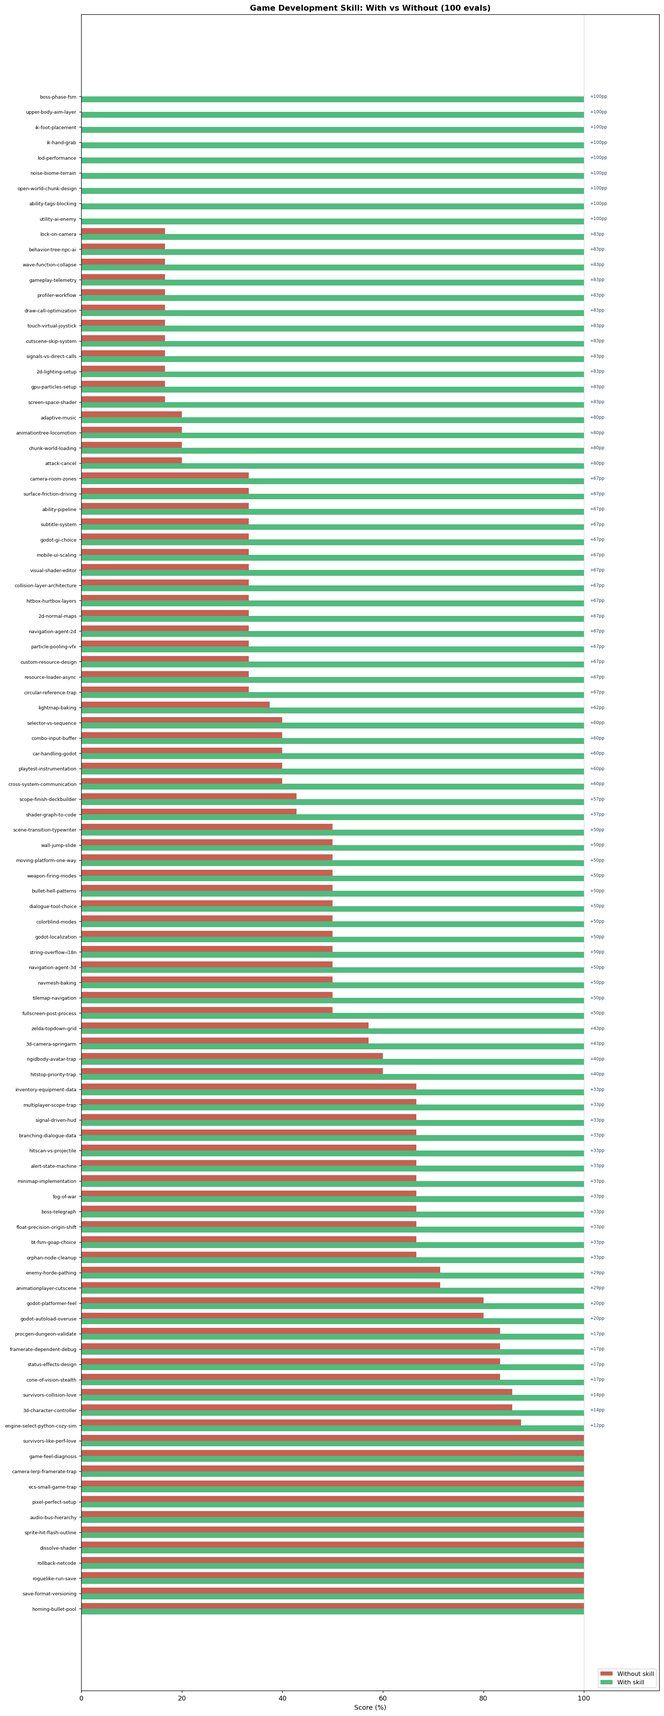
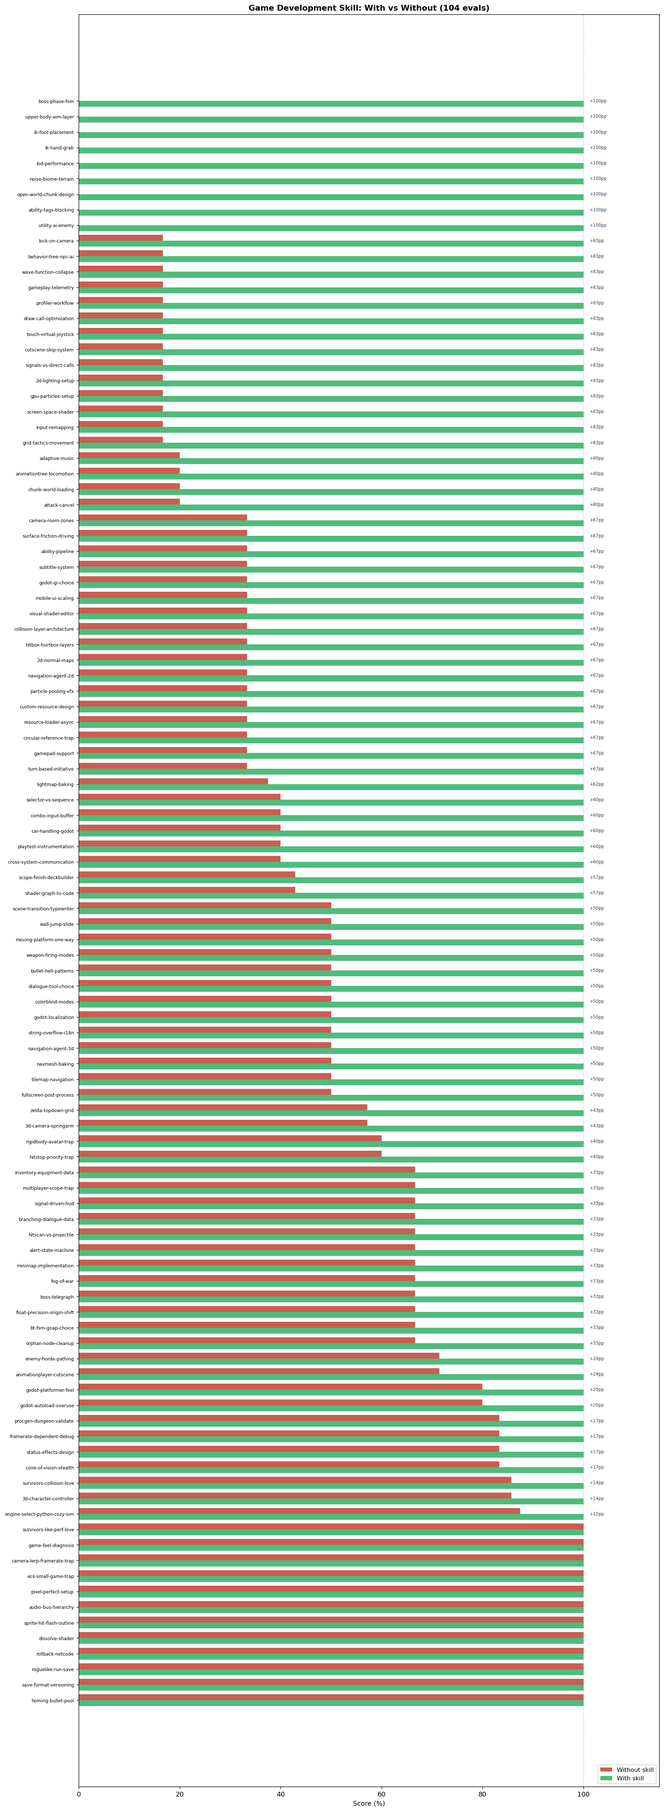
game-development: add input remapping, gamepad, grid tactics (iter-11)
New reference files: input-and-gamepad.md, grid-and-tactics.md
(56 refs total, 104 evals)

Areas added:
- Input remapping: InputMap runtime rebinding, serialize/deserialize by type,
  conflict detection, reset-to-defaults snapshot, action_set_deadzone
- Gamepad: JoyButton/JoyAxis Godot 4 enums, get_action_strength, rumble,
  hot-plug detection, active device detection for prompt icons
- Turn-based initiative: TurnManager sorted queue, TurnState enum guard,
  try_spend_ap signal pattern, skip-dead, safe dead-unit removal
- Grid tactics movement: AStarGrid2D, BFS flood fill (not A*) for range,
  Bresenham LOS, move-preview confirm, hex axial coordinates

Final: 623/623 with skill (100%), 306/623 without (49.1%), +50.9pp

Claude-Session: https://claude.ai/code/session_01Ck4njKAvZ82njqeEQouGmp

diff --git a/game-development/README.md b/game-development/README.md
@@ -12,6 +12,8 @@ Also covers **behavior trees** (BTNode/Sequence/Selector/Decorator composites wi
 
 Also covers **3D navigation** (NavigationRegion3D + NavigationMesh setup with agent_height/agent_radius/cell_size, NavigationAgent3D correct loop: `set_target_position()` + `get_next_path_position()` every frame, RVO avoidance via `set_velocity()` + `velocity_computed` signal to prevent enemy stacking, `navigation_finished` signal, `NavigationObstacle3D` for dynamic obstacles, `NavigationLink3D` for multi-floor buildings, runtime async baking with `bake_navigation_mesh(true)` + `bake_finished`, `is_target_reachable()` fallback) and **2D lighting** (`CanvasModulate` as required ambient node — without it lights are invisible; `PointLight2D` texture/scale/energy/shadow; `LightOccluder2D` + `OccluderPolygon2D` for wall shadows; TileMap per-tile occlusion; `item_cull_mask` to exclude UI layers; `Sprite2D.normal_map` with import type must be Normal Map not Color; `range_height` 64–128 for top-down depth shading; Laigter for pixel art normal generation; `WorldEnvironment` has no effect on 2D).
 
+Also covers **input remapping and gamepad support** (runtime InputMap rebinding via `action_erase_events()` + `action_add_event()`, conflict detection with `event.is_match()`, per-type InputEvent serialization for save/load — not `as_text()` which cannot be deserialized, reset-to-defaults via pre-load snapshot, `InputMap.action_set_deadzone()`, Godot 4 `JoyButton`/`JoyAxis` enums — not Godot 3 integer constants, `Input.get_action_strength()` / `get_axis()` for analog triggers and sticks, `joy_connection_changed` + `get_connected_joypads()` for hot-plug, active device detection for prompt switching, `Input.start_joy_vibration()` rumble) and **turn-based grid/tactics systems** (`AStarGrid2D` with `set_point_solid()` for walls and unit occupancy, BFS flood fill for movement range — NOT repeated A* calls, move-preview pattern with click-to-confirm, Bresenham's line for LOS with per-cell wall check, TurnManager autoload with sorted initiative array and skip-dead advancement, action-point `try_spend_ap()` with signal-driven UI, `TurnState` enum to guard input during animation, safe dead-unit removal without breaking `turn_index`, hex grid axial coordinates with `hex_distance()` / `hex_neighbors()` / `axial_to_world()`).
+
 Also covers **2D navigation** (NavigationAgent2D + NavigationRegion2D with NavigationPolygon, TileMap per-tile nav polygon setup in TileSet editor, `await bake_finished` before targeting — most-missed step, walls have no nav polygon not an explicit block, NavigationLink2D for ladders/portals, repath threshold pattern, `is_target_reachable()` fallback), **particles and VFX** (GPUParticles2D vs CPUParticles2D decision table, ParticleProcessMaterial with color_ramp gradient, one-shot bursts with `restart()` required before re-trigger, sub-emitters via `sub_emitter_mode` END_OF_LIFE/COLLISION, particle pool with `finished` signal for recycle — not allocation per hit, trail particles with `local_coords=false` on projectiles, `amount_ratio` for runtime density scaling), **full-screen post-processing** (`hint_screen_texture` uniform + `SCREEN_UV` — not `hint_texture` or `UV`; `ColorRect` in `CanvasLayer` layer=127; vignette/chromatic aberration/scanlines/barrel distortion all combined in one pass; `WorldEnvironment` has no effect on 2D sprites), **custom Resources and data-driven design** (`class_name MyData extends Resource` with `@export_group`, typed arrays, `.tres` vs `.res`; the shared-reference trap — always `.duplicate(true)` before mutating a preloaded resource; deep vs shallow duplicate; factory spawn pattern; `ResourceSaver.save()` for runtime persistence), **async resource loading** (`preload` vs `load` vs `load_threaded_request` decision table; polling loop with THREAD_LOAD_LOADED/FAILED status; `progress[0]` for loading bar; resource cache and `clear_cache()` between levels), and **memory management and orphan nodes** (orphan nodes — instantiated but not added to tree, never auto-freed; `queue_free()` vs `free()` safety; orphan detection in Debugger → Monitors; pool nodes stay in tree via hide/disable; `is_instance_valid()` not `!= null`; `WeakRef` for circular RefCounted references; observer lists as `Array[WeakRef]` with dead-ref pruning; lambda capture risk in timers/tweens; `_exit_tree()` for cleanup).
 
 Also covers **visual shaders and shader graph** (visual shader editor vs code shader decision table — same bytecode, different authoring; node-to-GLSL mapping: FragmentOutput→`void fragment()`, Texture2D→`texture()`, Time→TIME, uniform nodes→uniform declarations; `set_shader_parameter()` works identically for both; save as `.tres` resource for artist workflow; Expression node for inline GLSL within the graph; Convert to Text is one-way; `render_mode unshaded` for emissive/UI shaders), **collision layer architecture** (layer = what a body IS, mask = what it detects; full layer/mask table for a 2D action game with 8 categories; hitbox+hurtbox as separate Area2D nodes; hurtbox pulls damage via `get_damage()` not push; `CollisionShape2D.disabled` for attack window control not `Area2D.monitoring`; i-frames by disabling hurtbox; `set_collision_layer_value()` and bit-shift syntax), and **signal and event architecture** (signals flow upward/sideways, method calls flow downward; scene root wires sibling connections; Inventory→HUD pattern where emitter holds no receiver reference; autoload event bus for cross-scene signals; typed signal parameters; `CONNECT_ONE_SHOT`; autoload for global services; anti-pattern: `get_node()` paths from child to sibling).
@@ -30,7 +32,7 @@ Or manually:
 cp -r jakes-skills/game-development ~/.claude/skills/game-development
 ```
 
-Once installed, the skill applies automatically when the user wants to build or improve a game in Godot, Unity, LÖVE, PyGame, Bevy, or Phaser — including character controllers, collision, enemy AI, procedural generation, game feel, engine selection, pixel art rendering, top-down movement, JRPG turn-based combat, 3D character controllers, third-person cameras, scoping a project, RPG systems (status effects, inventory, stat modifiers), audio architecture (bus hierarchy, adaptive music), shaders and visual effects, multiplayer and netcode, save systems and meta-progression, UI/HUD design, advanced platformer mechanics (wall jump, moving platforms, scene transitions), dialogue and narrative systems, weapons and shooting mechanics, boss fight architecture, camera systems (room zones, lock-on), stealth AI (cone of vision, alert FSM), fog of war and minimap, bullet hell patterns, behavior trees (LimboAI, Beehave), animation trees and inverse kinematics, LOD and scene streaming, noise-based terrain and Wave Function Collapse, combo systems, open world architecture and origin shifting, vehicle physics (VehicleBody3D), ability systems (GAS-lite), GOAP and Utility AI, colorblind accessibility modes, subtitles and closed captions, localization and internationalization, analytics and playtest instrumentation, baked global illumination (LightmapGI, VoxelGI, SDFGI), performance profiling (GPU vs CPU, overdraw, draw call reduction), mobile touch input (virtual joystick, safe area, adaptive UI scaling), cutscenes and cinematics (AnimationPlayer sequencing, camera handoff, skippable cutscenes), visual shaders and shader graph (visual editor vs code, node-to-GLSL mapping, artist workflow), collision layer and mask architecture (hitbox/hurtbox layers, i-frames, friendly-fire exclusion), signal and event architecture (signals vs direct calls vs autoloads, scene-root wiring, event bus), 3D navigation (NavigationAgent3D, NavigationMesh baking, RVO avoidance, dynamic obstacles), 2D lighting (PointLight2D, CanvasModulate, LightOccluder2D, normal maps for depth), 2D navigation (NavigationAgent2D, TileMap pathfinding, NavigationRegion2D baking), particles and VFX (GPUParticles2D, sub-emitters, one-shot pools, hit VFX composition), full-screen post-processing (screen-space shaders, vignette, chromatic aberration, scanlines, barrel distortion), custom Resources and data-driven design (.duplicate(true), factory pattern, ResourceSaver), async resource loading (load_threaded_request, progress bar, cache management), or memory management (orphan nodes, WeakRef, circular references, queue_free).
+Once installed, the skill applies automatically when the user wants to build or improve a game in Godot, Unity, LÖVE, PyGame, Bevy, or Phaser — including character controllers, collision, enemy AI, procedural generation, game feel, engine selection, pixel art rendering, top-down movement, JRPG turn-based combat, 3D character controllers, third-person cameras, scoping a project, RPG systems (status effects, inventory, stat modifiers), audio architecture (bus hierarchy, adaptive music), shaders and visual effects, multiplayer and netcode, save systems and meta-progression, UI/HUD design, advanced platformer mechanics (wall jump, moving platforms, scene transitions), dialogue and narrative systems, weapons and shooting mechanics, boss fight architecture, camera systems (room zones, lock-on), stealth AI (cone of vision, alert FSM), fog of war and minimap, bullet hell patterns, behavior trees (LimboAI, Beehave), animation trees and inverse kinematics, LOD and scene streaming, noise-based terrain and Wave Function Collapse, combo systems, open world architecture and origin shifting, vehicle physics (VehicleBody3D), ability systems (GAS-lite), GOAP and Utility AI, colorblind accessibility modes, subtitles and closed captions, localization and internationalization, analytics and playtest instrumentation, baked global illumination (LightmapGI, VoxelGI, SDFGI), performance profiling (GPU vs CPU, overdraw, draw call reduction), mobile touch input (virtual joystick, safe area, adaptive UI scaling), cutscenes and cinematics (AnimationPlayer sequencing, camera handoff, skippable cutscenes), visual shaders and shader graph (visual editor vs code, node-to-GLSL mapping, artist workflow), collision layer and mask architecture (hitbox/hurtbox layers, i-frames, friendly-fire exclusion), signal and event architecture (signals vs direct calls vs autoloads, scene-root wiring, event bus), 3D navigation (NavigationAgent3D, NavigationMesh baking, RVO avoidance, dynamic obstacles), 2D lighting (PointLight2D, CanvasModulate, LightOccluder2D, normal maps for depth), 2D navigation (NavigationAgent2D, TileMap pathfinding, NavigationRegion2D baking), particles and VFX (GPUParticles2D, sub-emitters, one-shot pools, hit VFX composition), full-screen post-processing (screen-space shaders, vignette, chromatic aberration, scanlines, barrel distortion), custom Resources and data-driven design (.duplicate(true), factory pattern, ResourceSaver), async resource loading (load_threaded_request, progress bar, cache management), memory management (orphan nodes, WeakRef, circular references, queue_free), input remapping (InputMap runtime rebinding, save/load bindings, conflict detection), gamepad support (analog strength, JoyButton/JoyAxis enums, rumble, hot-plug detection), or turn-based grid tactics (AStarGrid2D, BFS movement range, LOS, initiative queue, hex grids).
 
 ---
 
@@ -342,12 +344,12 @@ The base model knows game development concepts. The skill gives the agent the *s
 
 ## Benchmark: skill vs. base model
 
-Evaluated across 100 scenarios covering the core game-development failure modes — including pixel art rendering, 3D game development, RPG systems, audio architecture, shaders, multiplayer netcode, save systems, UI/HUD, advanced platformer mechanics, dialogue systems, weapons, boss fights, camera systems, stealth AI, fog of war/minimap, bullet hell patterns, behavior trees, animation trees, inverse kinematics, LOD and scene streaming, noise-based terrain and WFC, combo systems, open world architecture, vehicle physics, ability systems, GOAP and Utility AI, accessibility, localization, analytics, lighting and global illumination, profiling and optimization, mobile touch input, cutscenes and cinematics, visual shaders and shader graph, collision layer architecture, signal/event architecture, 3D navigation, 2D lighting, 2D pathfinding, particles and VFX, full-screen post-processing, custom Resources and data-driven design, async resource loading, and memory management. Evals are LLM-graded against specific, objective assertions; executor and grader are separate calls to prevent self-grading inflation.
+Evaluated across 104 scenarios covering the core game-development failure modes — including pixel art rendering, 3D game development, RPG systems, audio architecture, shaders, multiplayer netcode, save systems, UI/HUD, advanced platformer mechanics, dialogue systems, weapons, boss fights, camera systems, stealth AI, fog of war/minimap, bullet hell patterns, behavior trees, animation trees, inverse kinematics, LOD and scene streaming, noise-based terrain and WFC, combo systems, open world architecture, vehicle physics, ability systems, GOAP and Utility AI, accessibility, localization, analytics, lighting and global illumination, profiling and optimization, mobile touch input, cutscenes and cinematics, visual shaders and shader graph, collision layer architecture, signal/event architecture, 3D navigation, 2D lighting, 2D pathfinding, particles and VFX, full-screen post-processing, custom Resources and data-driven design, async resource loading, memory management, input remapping and gamepad support, and turn-based grid tactics. Evals are LLM-graded against specific, objective assertions; executor and grader are separate calls to prevent self-grading inflation.
 
 ```
-with_skill:    100%   (599/599 expectations)
-without_skill:  50.1%  (300/599 expectations)
-delta:         +49.9pp
+with_skill:    100%   (623/623 expectations)
+without_skill:  49.1%  (306/623 expectations)
+delta:         +50.9pp
 ```
 
 ![Benchmark: skill vs. base model per eval](benchmark_comparison.png)
@@ -456,6 +458,10 @@ delta:         +49.9pp
 | resource-loader-async | 2/6 (33%) | **6/6 (100%)** | +67pp |
 | orphan-node-cleanup | 4/6 (67%) | **6/6 (100%)** | +33pp |
 | circular-reference-trap | 2/6 (33%) | **6/6 (100%)** | +67pp |
+| input-remapping | 1/6 (17%) | **6/6 (100%)** | +83pp |
+| gamepad-support | 2/6 (33%) | **6/6 (100%)** | +67pp |
+| turn-based-initiative | 2/6 (33%) | **6/6 (100%)** | +67pp |
+| grid-tactics-movement | 1/6 (17%) | **6/6 (100%)** | +83pp |
 
 ### Where the skill makes the biggest difference
 
@@ -518,6 +524,10 @@ delta:         +49.9pp
 | custom-resource-design | 33% base | Shared-reference trap: .duplicate(true) required before mutating any preloaded resource; deep vs shallow duplicate; factory pattern; base model shows @export but omits the mutation trap |
 | resource-loader-async | 33% base | progress[0] parameter for loading bar; THREAD_LOAD_FAILED handling; resource cache behavior; preload-large-assets hitch warning; base model gets happy-path polling right but omits these |
 | circular-reference-trap | 33% base | Observer list as Array[WeakRef] with dead-ref pruning on notify; lambda capture risk in timers (captures self, may outlive node); CONNECT_ONE_SHOT mitigation; decision table of when to use each; base model knows WeakRef but misses lambda and observer patterns |
+| input-remapping | 17% base | Per-type InputEvent serialization (not as_text() which can't be deserialized); conflict detection via event.is_match(); reset-to-defaults via pre-load snapshot; action_set_deadzone(); base model stores as_text() or keyboard-only |
+| gamepad-support | 33% base | Godot 4 JoyButton/JoyAxis enums (base model uses Godot 3 integer constants); rumble via start_joy_vibration(); active device detection with stick-drift threshold for prompt switching; deadzone via action_set_deadzone() |
+| turn-based-initiative | 33% base | TurnState enum guards input during animation; skip-dead advancement in end_turn(); safe dead-unit removal without corrupting turn_index; signal-driven AP HUD; base model has no state guard and crashes on dead unit removal |
+| grid-tactics-movement | 17% base | BFS flood fill for movement range (not repeated A* calls which only find one path); Bresenham's LOS per-cell; unit blocks path via set_point_solid(); hex grid axial coordinate math; base model uses expensive all-cells A* for range and a vague raycast for LOS |
 
 ### Evals where the base model already performs well (regression guards)
 
@@ -644,6 +654,10 @@ delta:         +49.9pp
 | 97 | `resource-loader-async` | Resources: preload vs load vs load_threaded_request decision, THREAD_LOAD_LOADED/FAILED polling, progress[0] for bar, cache behavior, clear_cache() between levels |
 | 98 | `orphan-node-cleanup` | Memory: orphan node definition and cause, queue_free() vs free(), Debugger Orphan Nodes monitor, pool nodes stay in tree, is_instance_valid(), _exit_tree() cleanup |
 | 99 | `circular-reference-trap` | Memory: RefCounted cycle explanation, WeakRef fix, Array[WeakRef] observer list with dead-ref pruning, lambda capture risk, CONNECT_ONE_SHOT, decision table |
+| 100 | `input-remapping` | Input: InputMap.action_erase_events + action_add_event, conflict detection, per-type InputEvent serialization, save/load bindings to user://, reset-to-defaults snapshot, action_set_deadzone |
+| 101 | `gamepad-support` | Input: get_action_strength/get_axis for analog, JoyButton/JoyAxis Godot 4 enums, start_joy_vibration rumble, joy_connection_changed hot-plug, active device detection for prompt icons, deadzone config |
+| 102 | `turn-based-initiative` | Tactics: TurnManager sorted initiative array, try_spend_ap signal pattern, TurnState enum guard, skip-dead end_turn(), safe dead-unit removal, signal-driven HUD |
+| 103 | `grid-tactics-movement` | Tactics: AStarGrid2D setup + set_point_solid for units, BFS flood fill for range (not A*), move-preview confirm pattern, Bresenham's LOS, hex axial coordinates + hex_distance/neighbors/axial_to_world |
 
 ---
 

diff --git a/game-development/game-development_SKILL.md b/game-development/game-development_SKILL.md
@@ -1,6 +1,6 @@
 ---
 name: game-development
-description: Procedural knowledge for designing and coding video games — game loops, game feel/juice, entity architecture, collision and physics, character controllers, enemy AI and pathfinding, procedural generation, the prototype-to-ship process, pixel art and retro games, 3D game development, RPG systems, audio architecture, shaders and visual effects, multiplayer netcode, save systems, UI and HUD, advanced platformer mechanics, dialogue and narrative, weapons and shooting, boss fights, camera systems, stealth AI, fog of war, minimap, bullet hell patterns, behavior trees, animation trees and IK, LOD and scene streaming, noise-based terrain and WFC, combo systems, open world architecture, vehicle physics, ability systems, GOAP and utility AI, accessibility, localization, and analytics/telemetry — plus opinionated engine selection across Godot, Unity, Bevy, LÖVE, PyGame, and Phaser. Use this whenever the user wants to build, prototype, or improve a game or game system, including character and platformer controllers, game loops, collision, enemy AI, spawning, pathfinding or flow fields, procedural level and content generation, making a game feel juicier, fixing framerate-dependent movement, choosing an engine, or scoping a game so it ships. Also trigger on Godot, Unity, Bevy, LÖVE/love2d, Pygame, Phaser, GDScript, sprites, tilemaps, ECS, or game jams, or a bare genre like platformer, roguelike, shooter, bullet hell, danmaku, survivors-like, puzzle, top-down, action-RPG, JRPG, farming sim, stealth, metroidvania, 3D platformer, open world, racing game, fighting game, MOBA, or RTS. Trigger on pixel art, pixel-perfect, retro, 8-bit, 16-bit, Stardew-like, Zelda-like, Final Fantasy-like, TileMap, spritesheet, turn-based combat, dialogue system, or wanting to make a pixel art game. Trigger on 3D controller, third-person camera, first-person shooter, SpringArm, NavigationAgent, skeletal animation, AnimationTree, blend tree, BlendSpace, LOD, level of detail, NavMesh, CharacterBody3D, IK, inverse kinematics, SkeletonIK, foot placement, or any 3D game question. Trigger on RPG systems, status effects, inventory, equipment, stat modifiers, crafting, ability system, cooldown, cast time, mana cost, item data. Trigger on audio buses, adaptive music, dynamic music, stem-based music, AudioServer, AudioStreamPlayer, spatial audio, audio pooling. Trigger on shaders, GLSL, ShaderMaterial, hit flash, sprite outline, dissolve effect, palette swap, post-processing. Trigger on multiplayer, online co-op, netcode, rollback netcode, GGPO, client-side prediction, authoritative server, Godot MultiplayerAPI. Trigger on save system, save file, meta-progression, run save, roguelike save, save versioning, persistent upgrades. Trigger on HUD, health bar, dialogue box, typewriter effect, scene transition, pause menu, minimap, or any UI question in a game context. Trigger on wall jump, wall slide, dash, one-way platform, moving platform, ledge grab, combo, attack cancel, frame data, or advanced platformer mechanic. Trigger on Dialogic, Ink, branching dialogue, quest system, narrative design, or NPC dialogue. Trigger on hitscan, projectile, weapon system, reload, firing mode, ammo, or gun mechanic. Trigger on boss fight, boss phase, attack telegraph, boss AI, vulnerability window, or boss design. Trigger on camera zone, lock-on, camera transition, cinematic camera, or split screen. Trigger on stealth, line of sight, cone of vision, detection meter, alert state, guard AI, or patrol. Trigger on fog of war, minimap, explored area, visibility mask, or map reveal. Trigger on bullet pattern, bullet pool, danmaku, circular pattern, spiral pattern, homing bullet, or bullet spawner. Trigger on behavior tree, BT, LimboAI, Beehave, GOAP, utility AI, Selector, Sequence, Blackboard, or NPC decision making. Trigger on noise, FastNoiseLite, terrain generation, biome, WFC, wave function collapse, procedural world, chunk loading, scene streaming, or open world. Trigger on VehicleBody3D, VehicleWheel3D, car physics, suspension, drift, WheelCollider, or vehicle handling. Trigger on accessibility, colorblind mode, subtitles, control remapping, or disability. Trigger on localization, i18n, translation, TranslationServer, tr(), multilanguage, or adding language support. Trigger on telemetry, analytics, playtesting, heatmap, death tracking, session data, or player metrics. Trigger on NavigationAgent3D, NavigationRegion3D, NavigationMesh, nav mesh, navmesh baking, NavigationObstacle3D, NavigationLink3D, pathfinding 3D, 3D navigation, avoidance, RVO, set_target_position, get_next_path_position, or bake_navigation_mesh. Trigger on Light2D, PointLight2D, DirectionalLight2D, LightOccluder2D, CanvasModulate, 2D lighting, 2D shadows, normal map 2D, Sprite2D normal map, range_height, Laigter, or 2D light setup. Trigger on LightmapGI, VoxelGI, SDFGI, baked lighting, LightmapGIProbe, global illumination, GI, lightmap baking, or light baking. Trigger on profiling, draw calls, fps, frame rate, optimization, overdraw, MultiMeshInstance3D, VisibilityNotifier3D, GPU bound, CPU bound, or performance profiler. Trigger on mobile game, touch input, virtual joystick, thumbstick, swipe, tap, pinch zoom, safe area, notch, canvas_items stretch, or mobile UI scaling. Trigger on cutscene, cinematic, camera handoff, make_current, AnimationPlayer cutscene, call track, skip cutscene, or game cinematics. Trigger on visual shader, shader graph, ShaderGraph, shader editor, GLSL node, shader node, uniform parameter, set_shader_parameter, or artist shader. Trigger on collision layer, collision mask, hitbox, hurtbox, i-frames, invincibility frames, friendly fire, layer architecture, Area2D detection, or collision setup. Trigger on signals vs direct calls, event bus, autoload signal, cross-system communication, CONNECT_ONE_SHOT, node communication, scene decoupling, or signal architecture. Trigger on NavigationAgent2D, NavigationRegion2D, NavigationPolygon, NavigationLink2D, 2D pathfinding, 2D navigation, TileMap pathfinding, or nav polygon baking. Trigger on GPUParticles2D, CPUParticles2D, GPUParticles3D, ParticleProcessMaterial, sub-emitter, particle burst, one-shot particle, particle pool, hit VFX, trail particles, or VFX composition. Trigger on post-processing, full-screen shader, screen-space effect, hint_screen_texture, SCREEN_UV, vignette shader, chromatic aberration, scanline shader, barrel distortion, CRT effect, or color grading LUT. Trigger on custom Resource, class_name extends Resource, @export Resource, .tres file, data-driven design, Resource.duplicate, shared resource, resource inheritance, ResourceSaver, or designer-editable data. Trigger on orphan node, memory leak, queue_free, node cleanup, WeakRef, circular reference, is_instance_valid, ResourceLoader.load_threaded_request, async loading, load_threaded_get_status, or Godot memory management. The patterns go well beyond default code generation.
+description: Procedural knowledge for designing and coding video games — game loops, game feel/juice, entity architecture, collision and physics, character controllers, enemy AI and pathfinding, procedural generation, the prototype-to-ship process, pixel art and retro games, 3D game development, RPG systems, audio architecture, shaders and visual effects, multiplayer netcode, save systems, UI and HUD, advanced platformer mechanics, dialogue and narrative, weapons and shooting, boss fights, camera systems, stealth AI, fog of war, minimap, bullet hell patterns, behavior trees, animation trees and IK, LOD and scene streaming, noise-based terrain and WFC, combo systems, open world architecture, vehicle physics, ability systems, GOAP and utility AI, accessibility, localization, and analytics/telemetry — plus opinionated engine selection across Godot, Unity, Bevy, LÖVE, PyGame, and Phaser. Use this whenever the user wants to build, prototype, or improve a game or game system, including character and platformer controllers, game loops, collision, enemy AI, spawning, pathfinding or flow fields, procedural level and content generation, making a game feel juicier, fixing framerate-dependent movement, choosing an engine, or scoping a game so it ships. Also trigger on Godot, Unity, Bevy, LÖVE/love2d, Pygame, Phaser, GDScript, sprites, tilemaps, ECS, or game jams, or a bare genre like platformer, roguelike, shooter, bullet hell, danmaku, survivors-like, puzzle, top-down, action-RPG, JRPG, farming sim, stealth, metroidvania, 3D platformer, open world, racing game, fighting game, MOBA, or RTS. Trigger on pixel art, pixel-perfect, retro, 8-bit, 16-bit, Stardew-like, Zelda-like, Final Fantasy-like, TileMap, spritesheet, turn-based combat, dialogue system, or wanting to make a pixel art game. Trigger on 3D controller, third-person camera, first-person shooter, SpringArm, NavigationAgent, skeletal animation, AnimationTree, blend tree, BlendSpace, LOD, level of detail, NavMesh, CharacterBody3D, IK, inverse kinematics, SkeletonIK, foot placement, or any 3D game question. Trigger on RPG systems, status effects, inventory, equipment, stat modifiers, crafting, ability system, cooldown, cast time, mana cost, item data. Trigger on audio buses, adaptive music, dynamic music, stem-based music, AudioServer, AudioStreamPlayer, spatial audio, audio pooling. Trigger on shaders, GLSL, ShaderMaterial, hit flash, sprite outline, dissolve effect, palette swap, post-processing. Trigger on multiplayer, online co-op, netcode, rollback netcode, GGPO, client-side prediction, authoritative server, Godot MultiplayerAPI. Trigger on save system, save file, meta-progression, run save, roguelike save, save versioning, persistent upgrades. Trigger on HUD, health bar, dialogue box, typewriter effect, scene transition, pause menu, minimap, or any UI question in a game context. Trigger on wall jump, wall slide, dash, one-way platform, moving platform, ledge grab, combo, attack cancel, frame data, or advanced platformer mechanic. Trigger on Dialogic, Ink, branching dialogue, quest system, narrative design, or NPC dialogue. Trigger on hitscan, projectile, weapon system, reload, firing mode, ammo, or gun mechanic. Trigger on boss fight, boss phase, attack telegraph, boss AI, vulnerability window, or boss design. Trigger on camera zone, lock-on, camera transition, cinematic camera, or split screen. Trigger on stealth, line of sight, cone of vision, detection meter, alert state, guard AI, or patrol. Trigger on fog of war, minimap, explored area, visibility mask, or map reveal. Trigger on bullet pattern, bullet pool, danmaku, circular pattern, spiral pattern, homing bullet, or bullet spawner. Trigger on behavior tree, BT, LimboAI, Beehave, GOAP, utility AI, Selector, Sequence, Blackboard, or NPC decision making. Trigger on noise, FastNoiseLite, terrain generation, biome, WFC, wave function collapse, procedural world, chunk loading, scene streaming, or open world. Trigger on VehicleBody3D, VehicleWheel3D, car physics, suspension, drift, WheelCollider, or vehicle handling. Trigger on accessibility, colorblind mode, subtitles, control remapping, or disability. Trigger on localization, i18n, translation, TranslationServer, tr(), multilanguage, or adding language support. Trigger on telemetry, analytics, playtesting, heatmap, death tracking, session data, or player metrics. Trigger on NavigationAgent3D, NavigationRegion3D, NavigationMesh, nav mesh, navmesh baking, NavigationObstacle3D, NavigationLink3D, pathfinding 3D, 3D navigation, avoidance, RVO, set_target_position, get_next_path_position, or bake_navigation_mesh. Trigger on Light2D, PointLight2D, DirectionalLight2D, LightOccluder2D, CanvasModulate, 2D lighting, 2D shadows, normal map 2D, Sprite2D normal map, range_height, Laigter, or 2D light setup. Trigger on LightmapGI, VoxelGI, SDFGI, baked lighting, LightmapGIProbe, global illumination, GI, lightmap baking, or light baking. Trigger on profiling, draw calls, fps, frame rate, optimization, overdraw, MultiMeshInstance3D, VisibilityNotifier3D, GPU bound, CPU bound, or performance profiler. Trigger on mobile game, touch input, virtual joystick, thumbstick, swipe, tap, pinch zoom, safe area, notch, canvas_items stretch, or mobile UI scaling. Trigger on cutscene, cinematic, camera handoff, make_current, AnimationPlayer cutscene, call track, skip cutscene, or game cinematics. Trigger on visual shader, shader graph, ShaderGraph, shader editor, GLSL node, shader node, uniform parameter, set_shader_parameter, or artist shader. Trigger on collision layer, collision mask, hitbox, hurtbox, i-frames, invincibility frames, friendly fire, layer architecture, Area2D detection, or collision setup. Trigger on signals vs direct calls, event bus, autoload signal, cross-system communication, CONNECT_ONE_SHOT, node communication, scene decoupling, or signal architecture. Trigger on NavigationAgent2D, NavigationRegion2D, NavigationPolygon, NavigationLink2D, 2D pathfinding, 2D navigation, TileMap pathfinding, or nav polygon baking. Trigger on input remapping, rebind controls, controller support, gamepad, JoyButton, JoyAxis, analog stick, deadzone, rumble, vibration, joy_connection_changed, InputMap, action_add_event, or control remapping. Trigger on turn-based, tactics game, XCOM-like, strategy RPG, initiative order, action points, AStarGrid2D, grid movement, movement range, line of sight, hex grid, axial coordinates, or tactics combat. Trigger on GPUParticles2D, CPUParticles2D, GPUParticles3D, ParticleProcessMaterial, sub-emitter, particle burst, one-shot particle, particle pool, hit VFX, trail particles, or VFX composition. Trigger on post-processing, full-screen shader, screen-space effect, hint_screen_texture, SCREEN_UV, vignette shader, chromatic aberration, scanline shader, barrel distortion, CRT effect, or color grading LUT. Trigger on custom Resource, class_name extends Resource, @export Resource, .tres file, data-driven design, Resource.duplicate, shared resource, resource inheritance, ResourceSaver, or designer-editable data. Trigger on orphan node, memory leak, queue_free, node cleanup, WeakRef, circular reference, is_instance_valid, ResourceLoader.load_threaded_request, async loading, load_threaded_get_status, or Godot memory management. The patterns go well beyond default code generation.
 ---
 
 # Game Development
@@ -86,6 +86,8 @@ Read the relevant reference file(s) before writing substantial code. They contai
 | **Custom Resources and data-driven design**: class_name MyData extends Resource with @export properties, @export_group/@export_subgroup for inspector organization, typed arrays (Array[ItemData]), .tres (text/VCS-friendly) vs .res (binary) file format, shared-reference trap (preloaded resources are shared — MUST call .duplicate(true) for runtime instances), deep vs shallow duplicate, resource inheritance for polymorphic item systems, factory spawn pattern, ResourceSaver.save() for runtime persistence, arrays in @export need _init() or duplicate | `references/custom-resources.md` |
 | **Async resource loading**: preload (compile-time, hitches if large) vs load (runtime blocking) vs ResourceLoader.load_threaded_request (non-blocking, required for large assets during gameplay), polling loop with THREAD_LOAD_LOADED/FAILED/IN_PROGRESS status, progress[0] parameter for loading bar, never call load_threaded_get before LOADED status, resource cache behavior, ResourceLoader.clear_cache() between levels | `references/custom-resources.md` |
 | **Memory management and orphan nodes**: orphan nodes (instantiated but not added to tree, never auto-freed — most common leak), queue_free() vs free() (always prefer queue_free — safe in callbacks; free() can crash mid-signal), orphan detection (Debugger → Monitors → Object → Orphan Nodes), pool nodes stay in tree (hide/disable, not remove_child without free), is_instance_valid() not != null for freed-node safety, WeakRef for circular RefCounted references, observer lists as Array[WeakRef] with dead-ref pruning, lambda capture risk (captures self, may outlive node in timer/tween), _exit_tree() for cleanup of signals and external handles | `references/memory-management.md` |
+| **Input remapping and gamepad**: runtime rebinding via InputMap.action_erase_events() + action_add_event(), conflict detection with event.is_match(), serialize/deserialize InputEvent by type (key keycode, joypad button_index, joypad motion axis) — not as_text(), save to user://bindings.json, reset-to-defaults via pre-load snapshot, InputMap.action_set_deadzone() for analog actions, Godot 4 JoyButton/JoyAxis enums (not Godot 3 integer constants), Input.get_action_strength() / get_axis() for analog (not is_action_pressed), joy_connection_changed + get_connected_joypads() for hot-plug, active device detection for prompt icons, Input.start_joy_vibration() / stop_joy_vibration() for rumble | `references/input-and-gamepad.md` |
+| **Grid and turn-based tactics**: AStarGrid2D setup (region, cell_size, diagonal_mode NEVER for 4-dir, HEURISTIC_MANHATTAN, update(), set_point_solid for walls + occupying units), BFS flood fill for movement range (NOT repeated A* calls — returns all reachable cells with costs, supports difficult terrain), move-preview pattern (highlight reachable, confirm on click, spend AP from BFS cost), Bresenham's line for LOS (check every cell between attacker and target), attack range = BFS + LOS filter, TurnManager autoload with sorted initiative Array + skip-dead advancement, action points with try_spend_ap() signal pattern, TurnState enum (AWAITING_INPUT/ANIMATING) to guard input, dead unit removal without breaking turn_index, hex grid axial coordinates (hex_distance, hex_neighbors, axial_to_world conversion) | `references/grid-and-tactics.md` |
 
 ## Opinionated defaults (the one-screen version)
 
